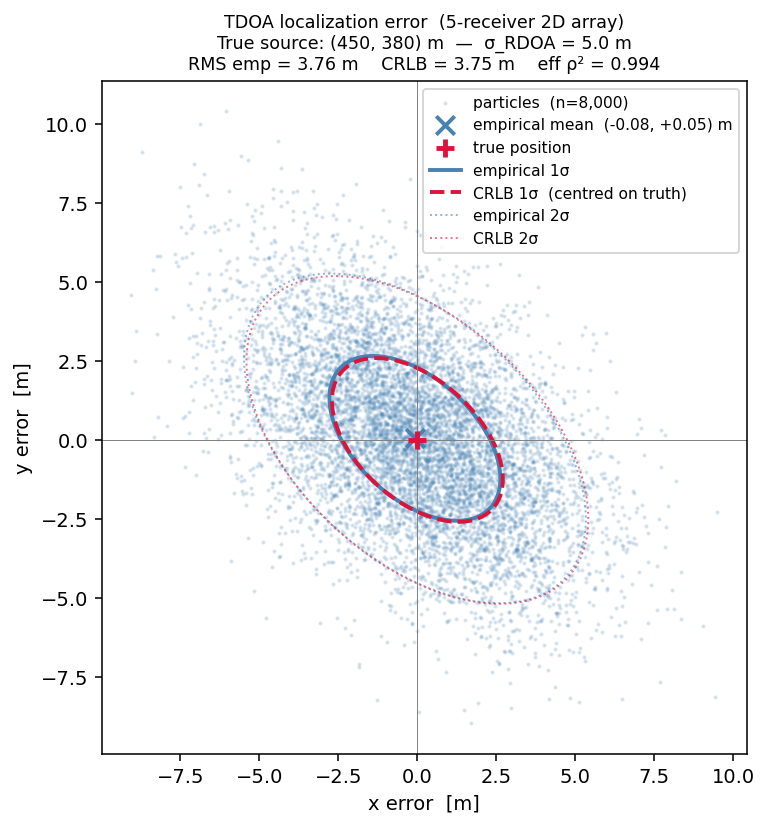
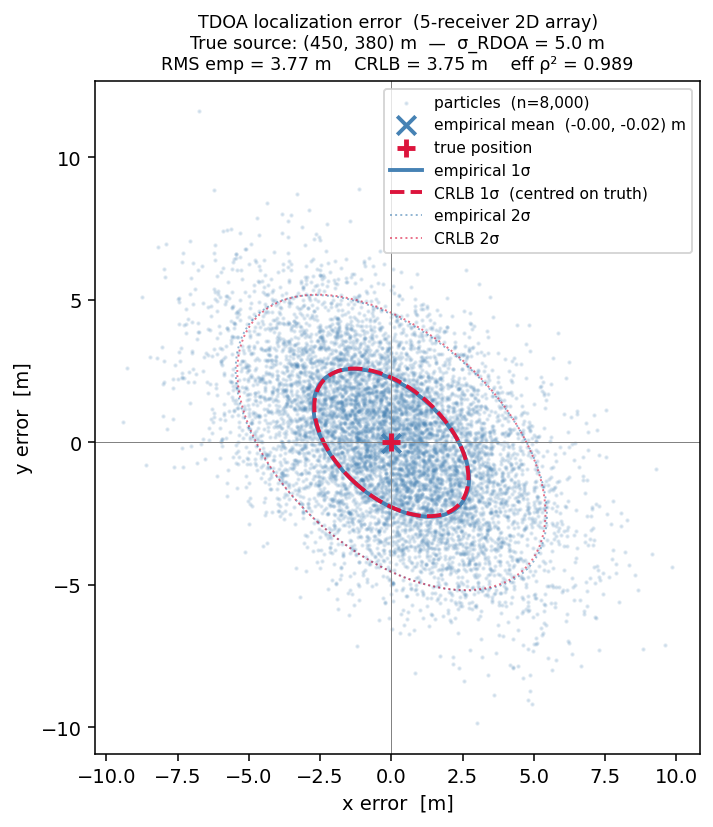
refactor: example 10 — graph is now a standalone algorithm
Remove measure_rdoa_node from the graph. The measurement node baked
source geometry into the pipeline, leaking simulation concerns into
the algorithm layer.

New design:
  - true_rdoas(x, y) computes noise-free RDOA geometry (helper, not a node)
  - LocalizeTLS takes scalar rdoa_k inputs; knows nothing about noise or geometry
  - build_and_run() sets input_dists = {rdoa_k: N(true_rdoa_k, sigma_r)}
    and passes the single-node graph to predict_particles

The graph can now be called as a pure function or inferred over; the
noise power and source geometry live entirely in the input distributions.

Results unchanged: RMS 3.766 m vs CRLB 3.746 m, efficiency 0.989.

diff --git a/examples/py/10_tdoa_localization.py b/examples/py/10_tdoa_localization.py
@@ -18,11 +18,16 @@ Geometry
 
 Pipeline
 --------
-    [MeasureRDOA]  compute true RDOAs from geometry + add Gaussian noise
-                   → returns list rdoa[0..M-2]   (FloatVec, auto-flattened)
+    input dists:  rdoa_k ~ N(true_rdoa_k, σ_r)   for k = 0 … M-2
+                  (measurement uncertainty — centres on the true geometry,
+                  spread by the noise power σ_r²)
          │
-    [LocalizeTLS]  Taylor-series iterative LS — reconstruct vector from
-                   rdoa[0..M-2] and solve for (x_est, y_est)
+    [LocalizeTLS]  Taylor-series iterative LS — takes scalar rdoa_k inputs,
+                   solves for (x_est, y_est)
+
+    The graph is a standalone algorithm.  predict_particles() propagates the
+    input distribution through it to obtain the output error distribution.
+    The CRLB is the theoretical lower bound on that output covariance.
 
 Produced figures
 ----------------
@@ -102,34 +107,31 @@ def draw_ellipse(ax, cov2, center, n_sigma=1.0, n_pts=200, **kw):
     ax.plot(pts[0] + center[0], pts[1] + center[1], **kw)
 
 
+# ── Helper: true RDOAs from geometry (no noise) ──────────────────────────────
+
+def true_rdoas(x_src, y_src, receivers=RECEIVERS):
+    """Exact range-difference-of-arrival values for a source at (x_src, y_src).
+
+    These become the *means* of the input distributions passed to
+    predict_particles — the noise power goes into the distribution width, not
+    into the graph itself.
+    """
+    r0 = receivers[0]
+    d0 = math.hypot(x_src - r0[0], y_src - r0[1])
+    return [math.hypot(x_src - ri[0], y_src - ri[1]) - d0 for ri in receivers[1:]]
+
+
 # ── Node functions ────────────────────────────────────────────────────────────
 
-def measure_rdoa_node(inputs):
-    """Compute true RDOAs from geometry, adding per-channel noise from inputs.
-
-    Noise components noise_0 … noise_{M-2} are explicit scalar inputs drawn
-    from N(0, σ_r) by predict_particles — this makes uncertainty visible in
-    the graph topology and ensures each particle gets independent noise.
-
-    Returns a plain Python list → stored as rdoa[0], rdoa[1], … in particles.
-    """
-    r0 = RECEIVERS[0]
-    d0 = math.hypot(X_TRUE - r0[0], Y_TRUE - r0[1])
-    rdoas = []
-    for k, si in enumerate(RECEIVERS[1:]):
-        di    = math.hypot(X_TRUE - si[0], Y_TRUE - si[1])
-        noise = inputs.get(f"noise_{k}", 0.0)
-        rdoas.append(di - d0 + noise)
-    return {"rdoa": rdoas}
-
-
 def localize_tls_node(inputs):
-    """Taylor-series iterative LS localization from RDOA vector.
+    """Taylor-series iterative LS localization from scalar RDOA inputs.
 
-    inputs["rdoa"] arrives as a list (FloatVec reconstructed from particle
-    rdoa[0], rdoa[1], … entries by predict_particles).
+    Each RDOA channel arrives as a separate scalar input ``rdoa_k``.  The graph
+    is a pure algorithm — it knows nothing about source geometry or noise power.
+    Those live in the input distributions supplied to predict_particles().
     """
-    rdoa_meas = inputs.get("rdoa") or [0.0] * (len(RECEIVERS) - 1)
+    M = len(RECEIVERS) - 1
+    rdoa_meas = [inputs.get(f"rdoa_{k}", 0.0) for k in range(M)]
 
     r0   = RECEIVERS[0]
     rest = RECEIVERS[1:]
@@ -161,26 +163,30 @@ def localize_tls_node(inputs):
 # ── Main ──────────────────────────────────────────────────────────────────────
 
 def build_and_run(x_true=X_TRUE, y_true=Y_TRUE, n_samples=N_SAMPLES):
-    """Build graph, run predict_particles, return JointDistribution.
+    """Build the localizer graph, run predict_particles, return JointDistribution.
 
-    Noise components are explicit scalar inputs ~ N(0, σ_r), so predict_particles
-    samples independent noise for each particle.  Modifies module-level X_TRUE /
-    Y_TRUE so the node closures pick up the requested position.
+    The graph is a standalone algorithm (LocalizeTLS only).  The measurement
+    uncertainty is expressed entirely in the input distributions:
+
+        rdoa_k ~ N(true_rdoa_k, σ_r)   for k = 0 … M-2
+
+    predict_particles() propagates those M input distributions through the
+    localizer to obtain the joint distribution over (rdoa_0…rdoa_{M-2},
+    x_est, y_est), from which we read off the empirical error covariance.
     """
-    global X_TRUE, Y_TRUE
-    X_TRUE, Y_TRUE = x_true, y_true
-
-    M = len(RECEIVERS) - 1                          # number of RDOA channels
-    noise_input_spec = [(f"noise_{k}", f"noise_{k}") for k in range(M)]
-    noise_input_dists = {f"noise_{k}": dagex.normal(0.0, SIGMA_R) for k in range(M)}
+    M = len(RECEIVERS) - 1
+    rdoa_means = true_rdoas(x_true, y_true)          # noise-free geometry
+    input_dists = {
+        f"rdoa_{k}": dagex.normal(rdoa_means[k], SIGMA_R)
+        for k in range(M)
+    }
 
     graph = dagex.Graph()
-    graph.add(measure_rdoa_node, label="MeasureRDOA",
-              inputs=noise_input_spec, outputs=[("rdoa", "rdoa")])
     graph.add(localize_tls_node, label="LocalizeTLS",
-              inputs=[("rdoa", "rdoa")], outputs=[("x_est", "x_est"), ("y_est", "y_est")])
+              inputs=[(f"rdoa_{k}", f"rdoa_{k}") for k in range(M)],
+              outputs=[("x_est", "x_est"), ("y_est", "y_est")])
     dag = graph.build()
-    stat = dag.predict_particles(noise_input_dists, n_samples=n_samples)
+    stat = dag.predict_particles(input_dists, n_samples=n_samples)
     return dagex.joint(stat)
 
 
@@ -233,11 +239,9 @@ def main():
     print(f"\n  Efficiency at ({X_TRUE:.0f}, {Y_TRUE:.0f}) m:  {eff:.3f}  {verdict}")
 
     # Print joint summary for the particle variables
-    rdoa_vars = [f"rdoa[{k}]" for k in range(len(RECEIVERS) - 1)]
-    noise_vars = [f"noise_{k}" for k in range(len(RECEIVERS) - 1)]
-    # Use assume_iid on the flattened rdoa outputs (all share same σ_r)
-    jd_iid = jd.assume_iid("rdoa")
-    jd_iid.print_summary(variables=noise_vars + rdoa_vars + ["x_est", "y_est"])
+    # rdoa_k inputs are not iid (different means) — summarise individually
+    rdoa_vars = [f"rdoa_{k}" for k in range(len(RECEIVERS) - 1)]
+    jd.print_summary(variables=rdoa_vars + ["x_est", "y_est"])
 
     # ── Figures ───────────────────────────────────────────────────────────────
     _plot_error_ellipses(jd, P_emp, P_crlb, bias)
@@ -479,11 +483,11 @@ def _plot_efficiency_heatmap(grid_n=22, mc_per_point=600):
 
 
 def _plot_pairs(jd):
-    print_section("Figure 4: Pair plot  (rdoa[0..1], x_est, y_est)")
+    print_section("Figure 4: Pair plot  (rdoa_0..2, x_est, y_est)")
     import matplotlib.pyplot as plt
 
     fig, _ = jd.plot_pairs(
-        variables=["rdoa[0]", "rdoa[1]", "rdoa[2]", "x_est", "y_est"],
+        variables=["rdoa_0", "rdoa_1", "rdoa_2", "x_est", "y_est"],
         title="TDOA particle scatter: measurements → position estimates",
     )
     path = "examples/py/10_tdoa_pairs.png"
